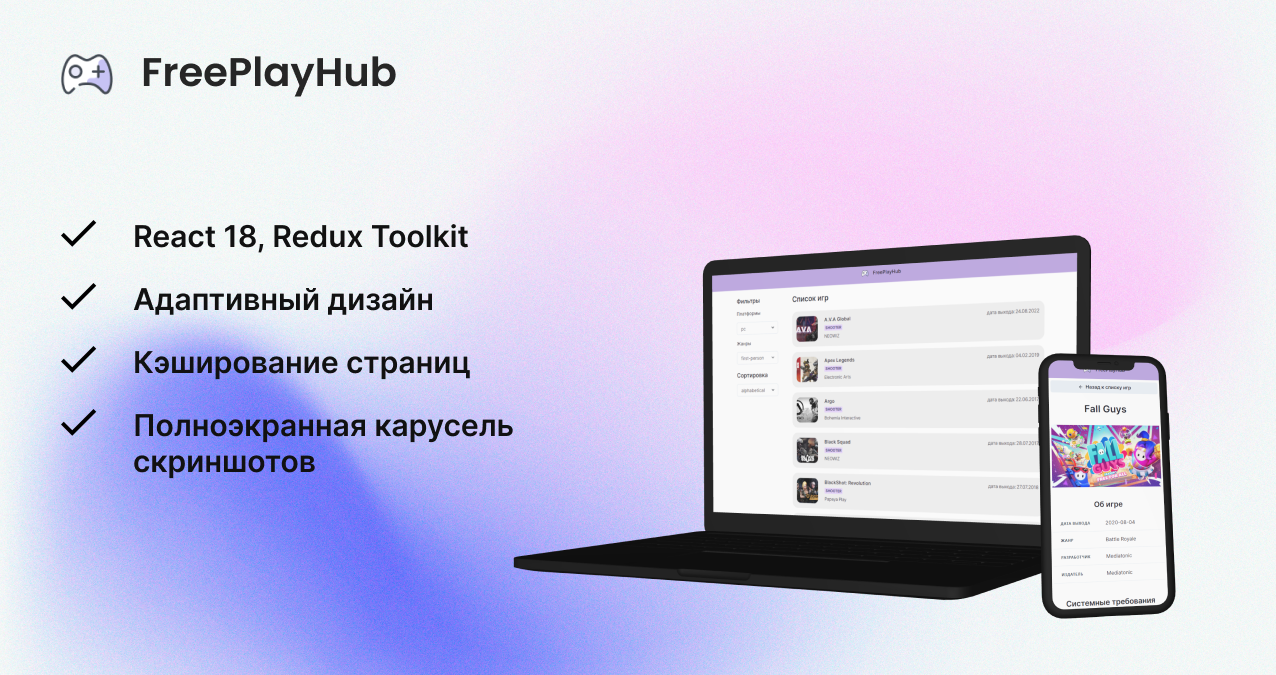
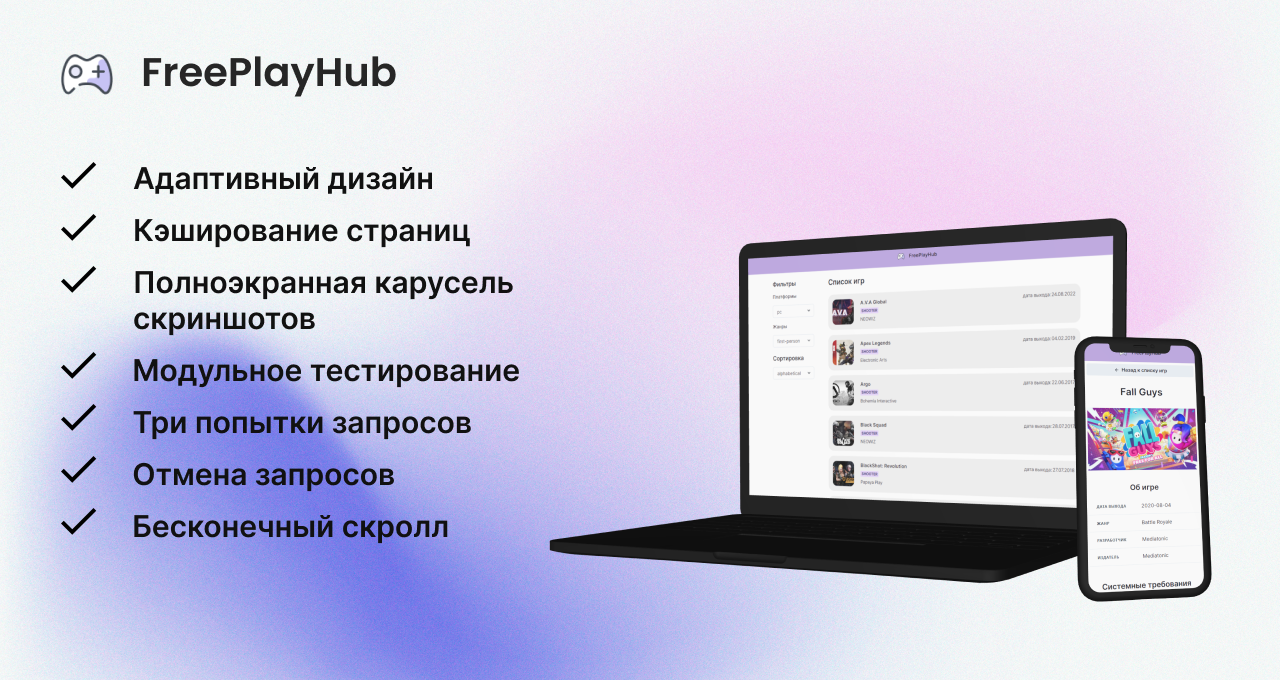
Update README.md before release

diff --git a/README.md b/README.md
@@ -19,11 +19,21 @@
     ·
     <a href="https://github.com/alyona-korenkovich/FreePlayHub/issues?q=is%3Aissue+is%3Aclosed">Issues</a>
   </p>
+
+  <a href="https://github.com/alyona-korenkovich/FreePlayHub/actions/workflows/frontend.yml">
+    <img 
+      src="https://github.com/alyona-korenkovich/FreePlayHub/actions/workflows/frontend.yml/badge.svg"
+      alt="frontend-CI"
+    />
+  </a>
 </div>
 
 <!-- TABLE OF CONTENTS -->
 <details>
-  <summary>Table of Contents</summary>
+  <summary>
+
+  ## 🚀 Table of Contents
+  </summary>
   <ol>
     <li><a href="#about-the-project">About The Project</a></li>
     <li><a href="#built-with">Built with</a></li>
@@ -39,7 +49,6 @@
 <!-- ABOUT THE PROJECT -->
 ## About The Project
 
----
 <img src="img/about_project_img.png" alt="FreePlayHub - React 18, Redux, адаптивный дизайн, кэширование страниц, полноэкранная карусель скриншотов">
 
 This project is a clone of the FreeToGame store that provides free games. 
@@ -79,7 +88,6 @@ Also, the application implements caching of downloaded data with a lifetime of 5
 <!-- BUILT WITH -->
 ## Built with
 
----
 
 * ![React](https://img.shields.io/badge/react-%2320232a.svg?style=for-the-badge&logo=react&logoColor=%2361DAFB)
 * ![React Router](https://img.shields.io/badge/React_Router-CA4245?style=for-the-badge&logo=react-router&logoColor=white)
@@ -96,7 +104,6 @@ Also, the application implements caching of downloaded data with a lifetime of 5
 <!-- SHOWCASE -->
 ## Showcase
 
----
 
 See how pages look on desktop/mobile:
 
@@ -112,7 +119,6 @@ See how pages look on desktop/mobile:
 <!--GETTING STARTED -->
 ## Getting started
 
----
 
 ### Clone the project
 `git clone https://github.com/alyona-korenkovich/FreePlayHub`
@@ -134,7 +140,7 @@ It is needed to
 
 ### Start development server
 
-`npm run start`
+`npm start`
 
 ### Open `localhost:3001` on your browser
 ...and enjoy FreePlayHub!
@@ -144,7 +150,6 @@ It is needed to
 <!-- ROADMAP -->
 ## Roadmap
 
----
 
 - 🌟 Init GitHub project and start working 🌟
 ---
@@ -163,14 +168,14 @@ It is needed to
 ---
 - 🌟 First release and deployment to GitHub Pages 🌟
 ---
-- [ ] #6 Endless Scroller
+- [x] #6 Endless Scroller
   - Data lazy-loading and endless game list
-- [ ] #7 Try-3-Times requests
+- [x] #7 Try-3-Times requests
   - If the request is unsuccessful, there must be three attempts to re-request
-- [ ] #8 Cancel Requests
+- [x] #8 Cancel Requests
   - Cancel outdated requests when redirecting pages
-- [ ] #9 Testing
-  - Add unit, integration, e2e, screenshot tests
+- [x] #9 Testing
+  - Add unit tests
   - Add GitHub workflows and support GitHub Actions
 ---
 - 🌟 Second release 🌟
@@ -190,7 +195,6 @@ It is needed to
 <!-- LICENSE -->
 ## License
 
----
 
 Distributed under the MIT License. 
 
@@ -201,7 +205,6 @@ See `LICENSE` for more information.
 <!-- CONTACT -->
 ## Contact
 
----
 
 Alyona Korenkovich - tg: [@cri_decoeur](https://t.me/cri_decoeur) - al.korenkovich@mail.ru
 
@@ -212,7 +215,6 @@ Project Link: [github.com/alyona-korenkovich/FreePlayHub](https://github.com/aly
 <!-- ACKNOWLEDGMENTS -->
 ## Acknowledgments
 
----
 
 Some helpful links:
 
